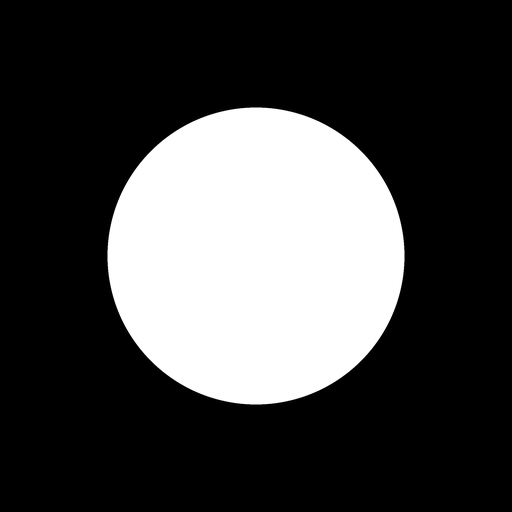
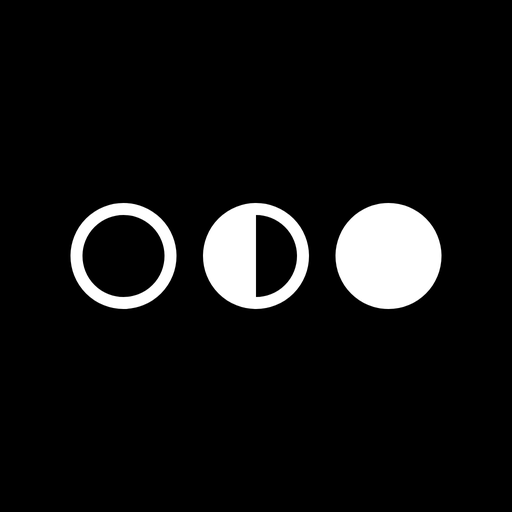
Ícono de str3ak: los 3 estados del círculo (opción 1)
- codigo/recursos/icono-180, 192 y 512: aro, mitad y lleno, blanco sobre negro.
- diseno.md, CLAUDE.md y la portada de los bocetos, al día; fuera de pendientes.md.

Claude-Session: https://claude.ai/code/session_01GqbH6y1c3JfEKqnnxx4AGw

Changed region(s): [[0.125, 0.1875, 0.875, 0.8125]]

diff --git a/bocetos/index.html b/bocetos/index.html
@@ -34,7 +34,7 @@
 
   <section class="seccion">
     <h2>ícono</h2>
-    <div class="icono"><img src="icono-180.png" alt=""><p>El círculo de «hecha», blanco sobre negro, sin texto.</p></div>
+    <div class="icono"><img src="icono-180.png" alt=""><p>str3ak: los 3 estados del círculo (toca, a medias, hecha), blanco sobre negro.</p></div>
   </section>
 
   <section class="seccion">

diff --git a/CLAUDE.md b/CLAUDE.md
@@ -85,7 +85,7 @@ Igual que en Akordia, que funcionó:
 
 - `codigo/reglas/`: reglas puras, sin DOM ni fecha del sistema (`fechas.js`, `estado.js` con las migraciones, `tareas.js` con los vencimientos, `unavez.js` con las tareas de 1 vez, `hoy.js` con las 3 de hoy y «Tengo X minutos», `copia.js` con la copia de seguridad; después la ropa), con pruebas en `codigo/tests/`. Cada archivo termina con `module.exports` para las pruebas y va igual en la página.
 - `codigo/pagina/`: la página. `plantilla.html` es el esqueleto: cada línea `<!-- incluir: ruta -->` (ruta desde `codigo/`) se reemplaza por ese archivo, en ese orden. `estilos/` (`base.css`: variables y «se siente app»; `componentes.css`), `pantallas/` (cabecera, hoy, tareas, ajustes, pestañas) y `logica/` (datos, navegación, tareas, hoy, copia, inicio). Un archivo nuevo se suma a la plantilla (`build.py` avisa si sobra alguno).
-- `codigo/recursos/`: la letra (League Spartan, `woff2`, va embebida en base64), los íconos de Phosphor (`iconos.svg`) y los íconos de la app (círculo lleno, 180, 192 y 512 px).
+- `codigo/recursos/`: la letra (League Spartan, `woff2`, va embebida en base64), los íconos de Phosphor (`iconos.svg`) y el ícono de la app (los 3 estados del círculo: aro, mitad y lleno; 180, 192 y 512 px).
 - `codigo/sw.js`: el service worker (primero la red; sin red, el caché `casa-v1`).
 - `codigo/build.py`: junta todo en 1 solo HTML en `salida/` (solo necesita `python3`).
 - `salida/`: lo que se publica (`index.html`, `sw.js`, `manifest.json`, íconos y la licencia de la letra). Se commitea compilado.

diff --git a/docs/diseno.md b/docs/diseno.md
@@ -9,7 +9,7 @@ Los valores viven como variables CSS en `bocetos/sistema.css`; el código de la 
 - **Contraste total.** Lo elegido es **blanco lleno con letra negra** (el «20» de los minutos, «Cada», la pestaña elegida, el botón principal). Lo no elegido es **solo contorno fino gris o texto gris**. Sin pastillas ni cajas grises de relleno.
 - **Formas llenas y grandes:** círculos de estado grandes y gruesos, opciones en círculos, íconos rellenos donde importan.
 - **League Spartan para todo** (no solo los títulos). Títulos en minúscula, como «hábitos»: «hoy», «tareas».
-- **El círculo como firma:** el mismo círculo es el estado de cada tarea, la acción grande de la tarea en curso, el círculo de arriba de la hoja y el ícono de la app (el círculo lleno de «hecha», blanco sobre negro, sin texto: `bocetos/icono-180.png`).
+- **El círculo como firma:** el mismo círculo es el estado de cada tarea, la acción grande de la tarea en curso, el círculo de arriba de la hoja y el ícono de la app, **str3ak**: los 3 estados del círculo en fila (aro de «toca», mitad de «a medias» y lleno de «hecha»), blanco sobre negro, sin texto (`codigo/recursos/icono-180.png`; elegido entre las 3 opciones de `bocetos/logos.html`).
 - **Mucho aire:** pocas cosas por pantalla, filas altas, márgenes de 20 px.
 
 ## Colores

diff --git a/docs/pendientes.md b/docs/pendientes.md
@@ -7,4 +7,3 @@ Lo anotado para más adelante. No va al código hasta que haga falta.
 Para después de que ande «hoy» («Tengo X minutos»):
 
 - **Aviso para instalarla:** que aparezca solo en Safari sin instalar (no en la app instalada), con los pasos para agregarla a inicio (Compartir › Agregar a inicio). Recordar que los datos de Safari y los de la app instalada son distintos.
-- **Un logo de verdad para el ícono, con el nombre nuevo «str3ak»:** las 3 opciones están en `bocetos/logos.html` (cada una en su página, `bocetos/logo-1.html` a `logo-3.html`, para agregarla a inicio y verla junto a las otras apps). Cuando se elija, va en el mismo PR que el cambio de nombre en la app (manifest, `<title>` y `apple-mobile-web-app-title`), así se reinstala 1 sola vez. Los nombres internos (`casa-v1`, `index.html`, `app: 'casa'`, el caché) no cambian.
